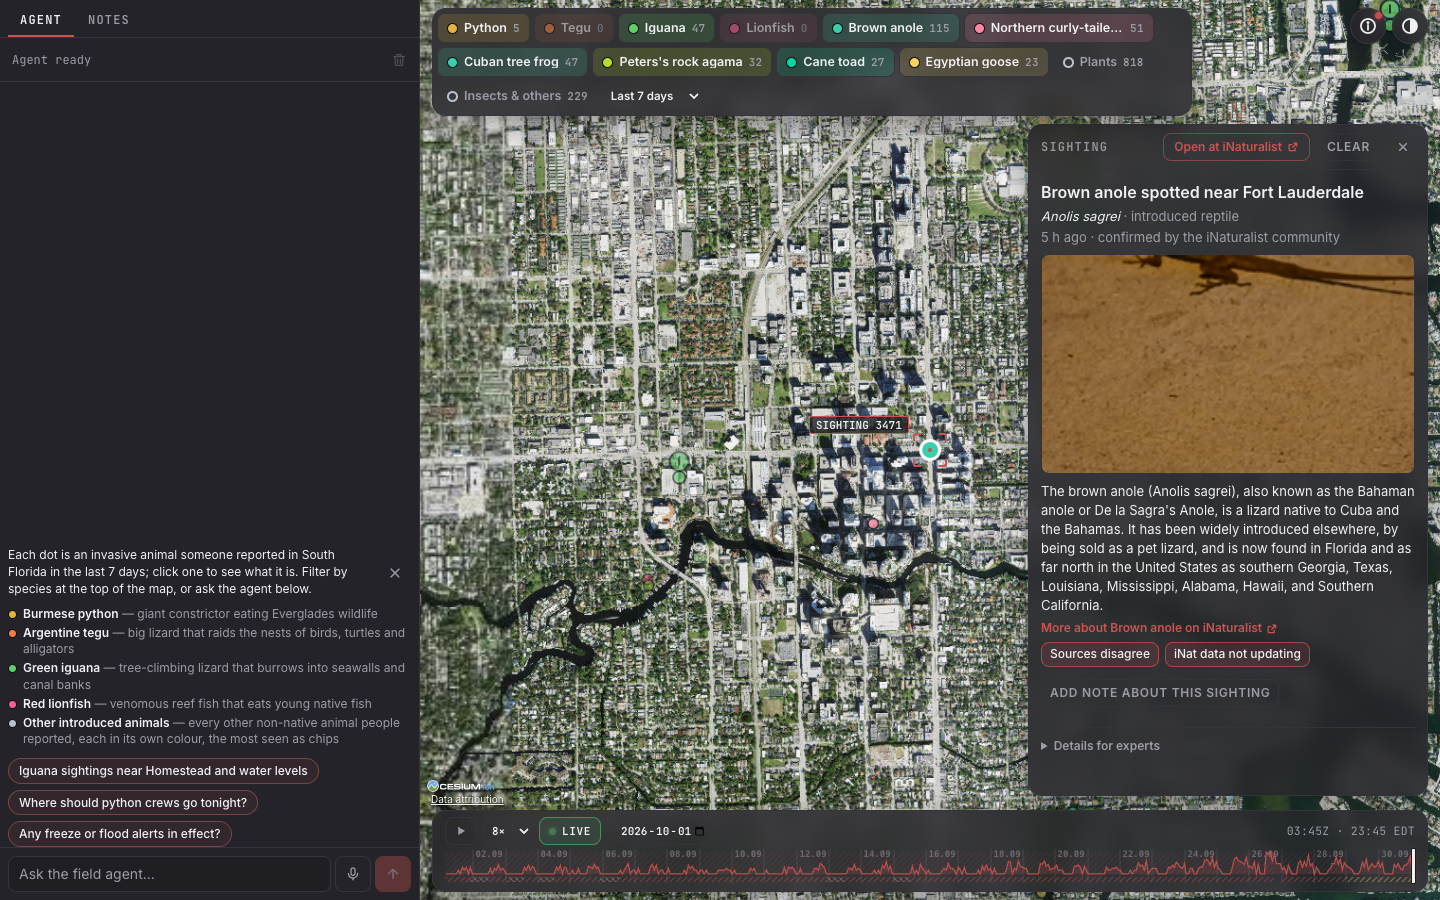
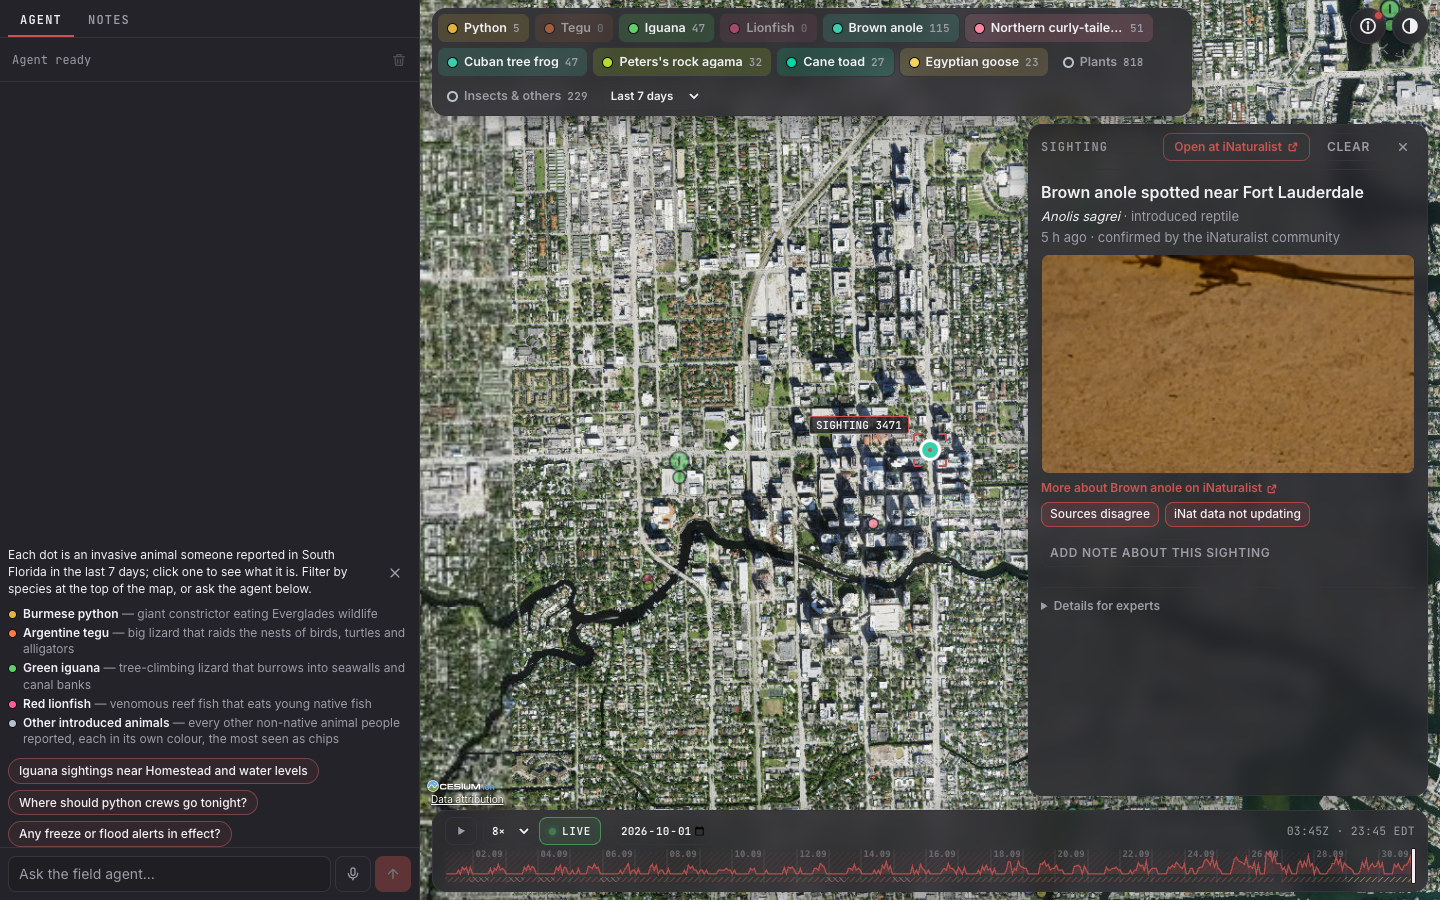
wip: phone keeps three animal chips

Changed region(s): [[0.7188, 0.5289, 0.9688, 0.7778], [0.7188, 0.8089, 0.8125, 0.84]]

diff --git a/apps/web/client/hud/species/SpeciesBar.tsx b/apps/web/client/hud/species/SpeciesBar.tsx
@@ -34,8 +34,9 @@ export const SPECIES_CHIP_COLORS: readonly string[] = [...SPECIES_COLORS, NEUTRA
 const [SIGHTINGS] = LAYER_IDS;
 /** A touch held this long shows only that species. */
 const LONG_PRESS_MS = 500;
-/** Non-focus animal chips in the bar: the most-seen taxa of the window. */
+/** Non-focus animal chips in the bar: the most-seen taxa of the window. A phone shows the first MOBILE_ANIMAL_CHIPS of them. */
 export const TOP_ANIMAL_CHIPS = 6;
+export const MOBILE_ANIMAL_CHIPS = 3;
 
 const Bar = styled(Surface)`
   display: flex;
@@ -56,6 +57,13 @@ const Bar = styled(Surface)`
 const Slot = styled.span`
   position: relative;
   display: inline-flex;
+
+  /* A phone keeps the bar to two rows: the focus four, the top three other animals and the groups. */
+  ${MOBILE} {
+    &[data-extra] {
+      display: none;
+    }
+  }
 
   /* The plain one-line description: on hover, keyboard focus and a held touch. */
   [role="tooltip"] {
@@ -194,6 +202,8 @@ export type ChipModel = {
   color: string;
   on: boolean;
   count: number | null;
+  /** Rank among the non-focus animal chips (0 = most seen); absent on focus and group chips. */
+  rank?: number;
 };
 
 /** First sentence of a taxon summary, for the chip's one-line description. */
@@ -227,10 +237,11 @@ export function speciesChips(filter: LayersState["species"], taxa: Readonly<Reco
     if (group === "animals" && n > 0) animals.push({ id, n, info });
   }
   animals.sort((a, b) => b.n - a.n || a.id - b.id);
-  for (const { id, n, info } of animals.slice(0, TOP_ANIMAL_CHIPS)) {
+  for (const [rank, { id, n, info }] of animals.slice(0, TOP_ANIMAL_CHIPS).entries()) {
     const name = taxonName(info, `Species ${id}`);
     chips.push({
       key: `t${id}`,
+      rank,
       target: { kind: "taxon", id },
       name,
       full: name,
@@ -278,7 +289,7 @@ function SpeciesChip({ chip, hours }: { chip: ChipModel; hours: number }) {
   };
   const seen = `${formatCount(chip.count)} seen in the last ${windowLabel(hours)}.`;
   return (
-    <Slot data-pressing={pressing ? "" : undefined}>
+    <Slot data-pressing={pressing ? "" : undefined} data-extra={chip.rank !== undefined && chip.rank >= MOBILE_ANIMAL_CHIPS ? "" : undefined}>
       <Chip
         type="button"
         $color={chip.color}

diff --git a/apps/web/tests/client/hud/taxa.test.tsx b/apps/web/tests/client/hud/taxa.test.tsx
@@ -88,7 +88,8 @@ describe("taxa store (T44)", () => {
     expect(chips.map((c) => c.key)).toEqual(["python", "tegu", "iguana", "lionfish", "t10", "t11", "t14", "t15", "t16", "t17", "plants", "others"]);
     expect(TOP_ANIMAL_CHIPS).toBe(6);
     expect(chips.slice(0, 4).map((c) => c.count)).toEqual([0, 0, 5, 0]);
-    expect(chips[4]).toMatchObject({ name: "Brown anole", line: "The brown anole is a lizard.", color: colorOfTaxon(10), on: true, count: 40, target: { kind: "taxon", id: 10 } });
+    expect(chips[4]).toMatchObject({ name: "Brown anole", line: "The brown anole is a lizard.", color: colorOfTaxon(10), on: true, count: 40, target: { kind: "taxon", id: 10 }, rank: 0 });
+    expect(chips.map((c) => c.rank)).toEqual([undefined, undefined, undefined, undefined, 0, 1, 2, 3, 4, 5, undefined, undefined]);
     expect(chips[5]!.line).toBe("Genus species11, an introduced species");
     // Group chips: totals over every taxon of the group (not only the chips), neutral while off. 20 is unknown: an animal.
     expect(chips.find((c) => c.key === "plants")).toMatchObject({ name: "Plants", count: 300, on: false, color: NEUTRAL_COLOR });

diff --git a/apps/web/client/hud/help/content.ts b/apps/web/client/hud/help/content.ts
@@ -30,7 +30,7 @@ export const HELP_ENTRIES: readonly HelpEntry[] = [
     id: "species",
     group: "Map",
     control: "Species chips",
-    what: `Top left. Python, tegu, iguana and lionfish first, then the animals seen most in the window, each with its colour and count; Plants and Insects & others are off until you switch them on. Click to show or hide one; Alt-click (or press and hold) to show only that one; All brings every animal back.`,
+    what: `Top left. Python, tegu, iguana and lionfish first, then the six animals seen most in the window (three on a phone), each with its colour and count; Plants and Insects & others are off until you switch them on. Click to show or hide one; Alt-click (or press and hold) to show only that one; All brings every animal back.`,
   },
   {
     id: "window",

diff --git a/README.md b/README.md
@@ -110,7 +110,7 @@ Hover a sighting to see the species first, then how sure the ID is, for example 
 
 | Where | Control | What it does |
 |---|---|---|
-| Map | Species chips | Top left: Python, Tegu, Iguana and Lionfish pinned first (dimmed at 0), then the six animals seen most in the window, each with its colour and count, then Plants and Insects & others, off until switched on. Hover a chip for a one-line description. Click to show or hide one; Alt-click (or press and hold) to show only that one; All brings every animal back. The globe, the legend, the timeline line and the agent's view all follow it. |
+| Map | Species chips | Top left: Python, Tegu, Iguana and Lionfish pinned first (dimmed at 0), then the six animals seen most in the window (three on a phone), each with its colour and count, then Plants and Insects & others, off until switched on. Hover a chip for a one-line description. Click to show or hide one; Alt-click (or press and hold) to show only that one; All brings every animal back. The globe, the legend, the timeline line and the agent's view all follow it. |
 | Map | Sightings window | Next to the chips: last 2, 7 or 30 days (7 days to start). The agent's view follows it. |
 | Map | Sighting dots | One per animal reported in the window, in its species' colour, brightest when newest. Hover for the species and the ID's grade; click to open the record. |
 | Map | Evidence card | A plain summary (what, where, when, how sure), the species' Latin name and a line about it, the photo, the species' iNaturalist page and the publisher link, with the raw record under Details for experts. |
